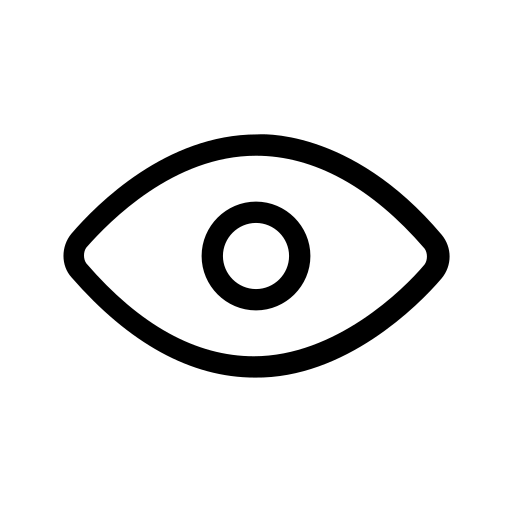
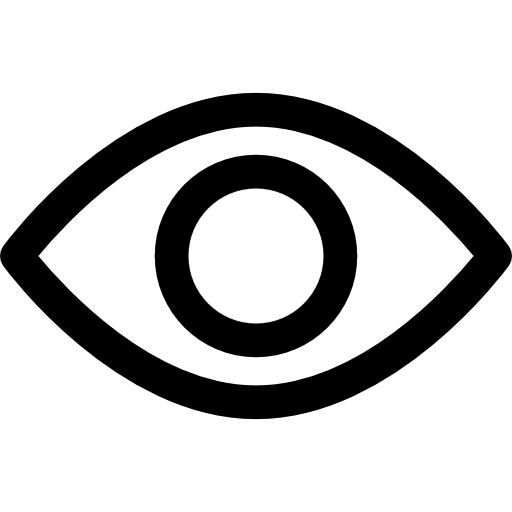
비밀번호 숨기기/보이기 next/Image로 변경

diff --git a/newWorldFront/src/app/signup/SignUp.tsx b/newWorldFront/src/app/signup/SignUp.tsx
@@ -9,7 +9,9 @@ import {
   useInputField,
   usePasswordField,
 } from "./useInputField";
-
+import Image from "next/image";
+import hide from "/public/img/hide-password.png";
+import show from "/public/img/show-password.png";
 type LanguageKeys = "en" | "ko";
 
 const SignUp = () => {
@@ -106,21 +108,41 @@ const SignUp = () => {
                 {EmailField.warning && (
                   <p className={styles.warning}>{EmailField.warning}</p>
                 )}
-                <input
-                  className={styles.content_input_box}
-                  type={showPassword ? "text" : "password"}
-                  placeholder={translations[language].password}
-                  onChange={PasswordField.handleChange}
-                />
+                <div className={styles.input_wrapper}>
+                  <input
+                    className={styles.content_input_box}
+                    type={showPassword ? "text" : "password"}
+                    placeholder={translations[language].password}
+                    onChange={PasswordField.handleChange}
+                  />
+                  <Image
+                    width={20}
+                    height={20}
+                    src={showPassword ? hide : show}
+                    className={styles.password_toggle}
+                    onClick={toggleShowPassword}
+                    alt="hide-password"
+                  />
+                </div>
                 {PasswordField.warning && (
                   <p className={styles.warning}>{PasswordField.warning}</p>
                 )}
-                <input
-                  className={styles.content_input_box}
-                  type={showPassword ? "text" : "password"}
-                  placeholder={translations[language].confirmPassword}
-                  onChange={ConfirmPasswordField.handleChange}
-                />
+                <div className={styles.input_wrapper}>
+                  <input
+                    className={styles.content_input_box}
+                    type={showPassword ? "text" : "password"}
+                    placeholder={translations[language].confirmPassword}
+                    onChange={ConfirmPasswordField.handleChange}
+                  />
+                  <Image
+                    width={20}
+                    height={20}
+                    src={showPassword ? hide : show}
+                    className={styles.password_toggle}
+                    onClick={toggleShowPassword}
+                    alt="hide-password"
+                  />
+                </div>
                 {ConfirmPasswordField.warning && (
                   <p className={styles.warning}>
                     {ConfirmPasswordField.warning}
@@ -135,9 +157,6 @@ const SignUp = () => {
                       : "비밀번호가 일치하지 않습니다."}
                   </p>
                 )}
-                <button type="button" onClick={toggleShowPassword}>
-                  {showPassword ? "Hide" : "Show"}
-                </button>
               </div>
               <input
                 className={styles.signUp_button}

diff --git a/newWorldFront/src/app/signup/signup.module.scss b/newWorldFront/src/app/signup/signup.module.scss
@@ -116,6 +116,10 @@
   width: 15rem;
 }
 .content_input_box {
+  background-position: right 10px center;
+  background-repeat: no-repeat;
+  background-size: 20px 20px;
+  padding-right: 40px;
   display: flex;
   margin-top: 1rem;
   margin-bottom: 1rem;
@@ -124,6 +128,20 @@
   border-radius: 1.5rem;
   margin-right: 1rem;
   width: 34rem;
+}
+.input_wrapper {
+  position: relative;
+  display: inline-block;
+}
+.password_toggle {
+  width: 20px;
+  height: 20px;
+  position: absolute;
+  right: 22px;
+  top: calc(
+    50% - 10px
+  ); // 인풋 필드의 높이의 절반에서 이미지 높이의 절반을 뺀 값
+  cursor: pointer;
 }
 .signUp_button {
   margin-top: 1rem;
